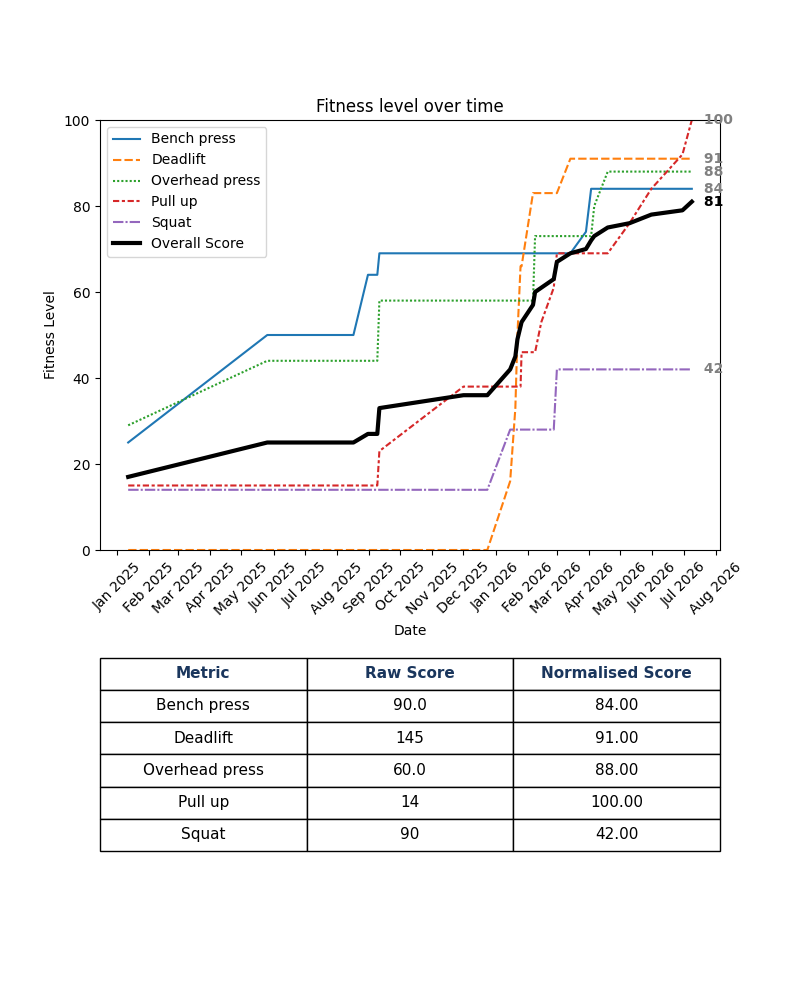
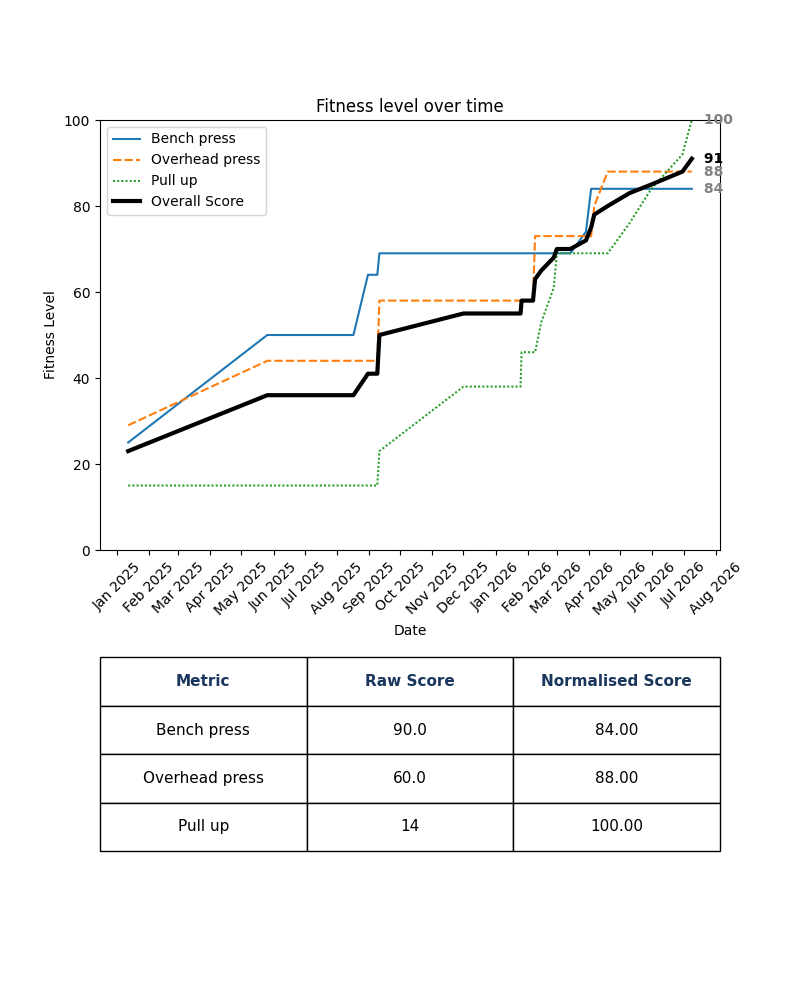
uppper only

diff --git a/fitness_track.py b/fitness_track.py
@@ -48,11 +48,11 @@ class FitnessTracker:
                 self.score_bounds['bench_press']['max']
             )
 
-            squat_norm = self.calculate_normalise_score(
-                row['squat'], 
-                self.score_bounds['squat']['min'], 
-                self.score_bounds['squat']['max']
-            )
+            # squat_norm = self.calculate_normalise_score(
+            #     row['squat'], 
+            #     self.score_bounds['squat']['min'], 
+            #     self.score_bounds['squat']['max']
+            # )
 
             overhead_press_norm = self.calculate_normalise_score(
                 row['overhead_press'], 
@@ -60,18 +60,18 @@ class FitnessTracker:
                 self.score_bounds['overhead_press']['max']
             )
 
-            deadlift_norm = self.calculate_normalise_score(
-                row['deadlift'], 
-                self.score_bounds['deadlift']['min'], 
-                self.score_bounds['deadlift']['max']
-            )
+            # deadlift_norm = self.calculate_normalise_score(
+            #     row['deadlift'], 
+            #     self.score_bounds['deadlift']['min'], 
+            #     self.score_bounds['deadlift']['max']
+            # )
 
 
             overall_score = self.calculate_average_scores(
                  pull_up_norm, 
-                 bench_press_norm, squat_norm, overhead_press_norm, deadlift_norm
+                 bench_press_norm,  overhead_press_norm, 
             )
-            #fivekm_time_norm,
+            #fivekm_time_norm,squat_norm,deadlift_norm
 
             results.append({
                 'date': row['date'],
@@ -79,15 +79,15 @@ class FitnessTracker:
                 'Pull up': pull_up_norm,
                 #'5K': fivekm_time_norm,
                 'Bench press': bench_press_norm,
-                'Squat': squat_norm,
+               # 'Squat': squat_norm,
                 'Overhead press': overhead_press_norm,
-                'Deadlift':deadlift_norm,
+               # 'Deadlift':deadlift_norm,
                 'Pull up_raw': row['pull_up'],
                # '5K_raw': row['fivekm_time'],
                 'Bench press_raw': row['bench_press'],
-                'Squat_raw': row['squat'],
+                #'Squat_raw': row['squat'],
                 'Overhead press_raw': row['overhead_press'],
-                'Deadlift_raw': row['deadlift']
+                #'Deadlift_raw': row['deadlift']
 
             })
 
@@ -103,17 +103,17 @@ class FitnessTracker:
             )
         data.set_index('date', inplace=True)
 
-        metrics = ['Bench press', 'Deadlift', 'Overhead press', 'Pull up', 'Squat']
+        metrics = ['Bench press',  'Overhead press', 'Pull up', ]
         #metrics = ['5K', 'Bench press', 'Deadlift', 'Overhead press', 'Pull up', 'Squat']
         fig, ax = plt.subplots(figsize=(8, 10))
         sns.lineplot(
             data=data[[
                        #'5K',
                        'Bench press',
-                       'Deadlift',
+                       #'Deadlift',
                        'Overhead press',
                        'Pull up',
-                       'Squat'
+                       #'Squat'
                        ]],
                        )
         
